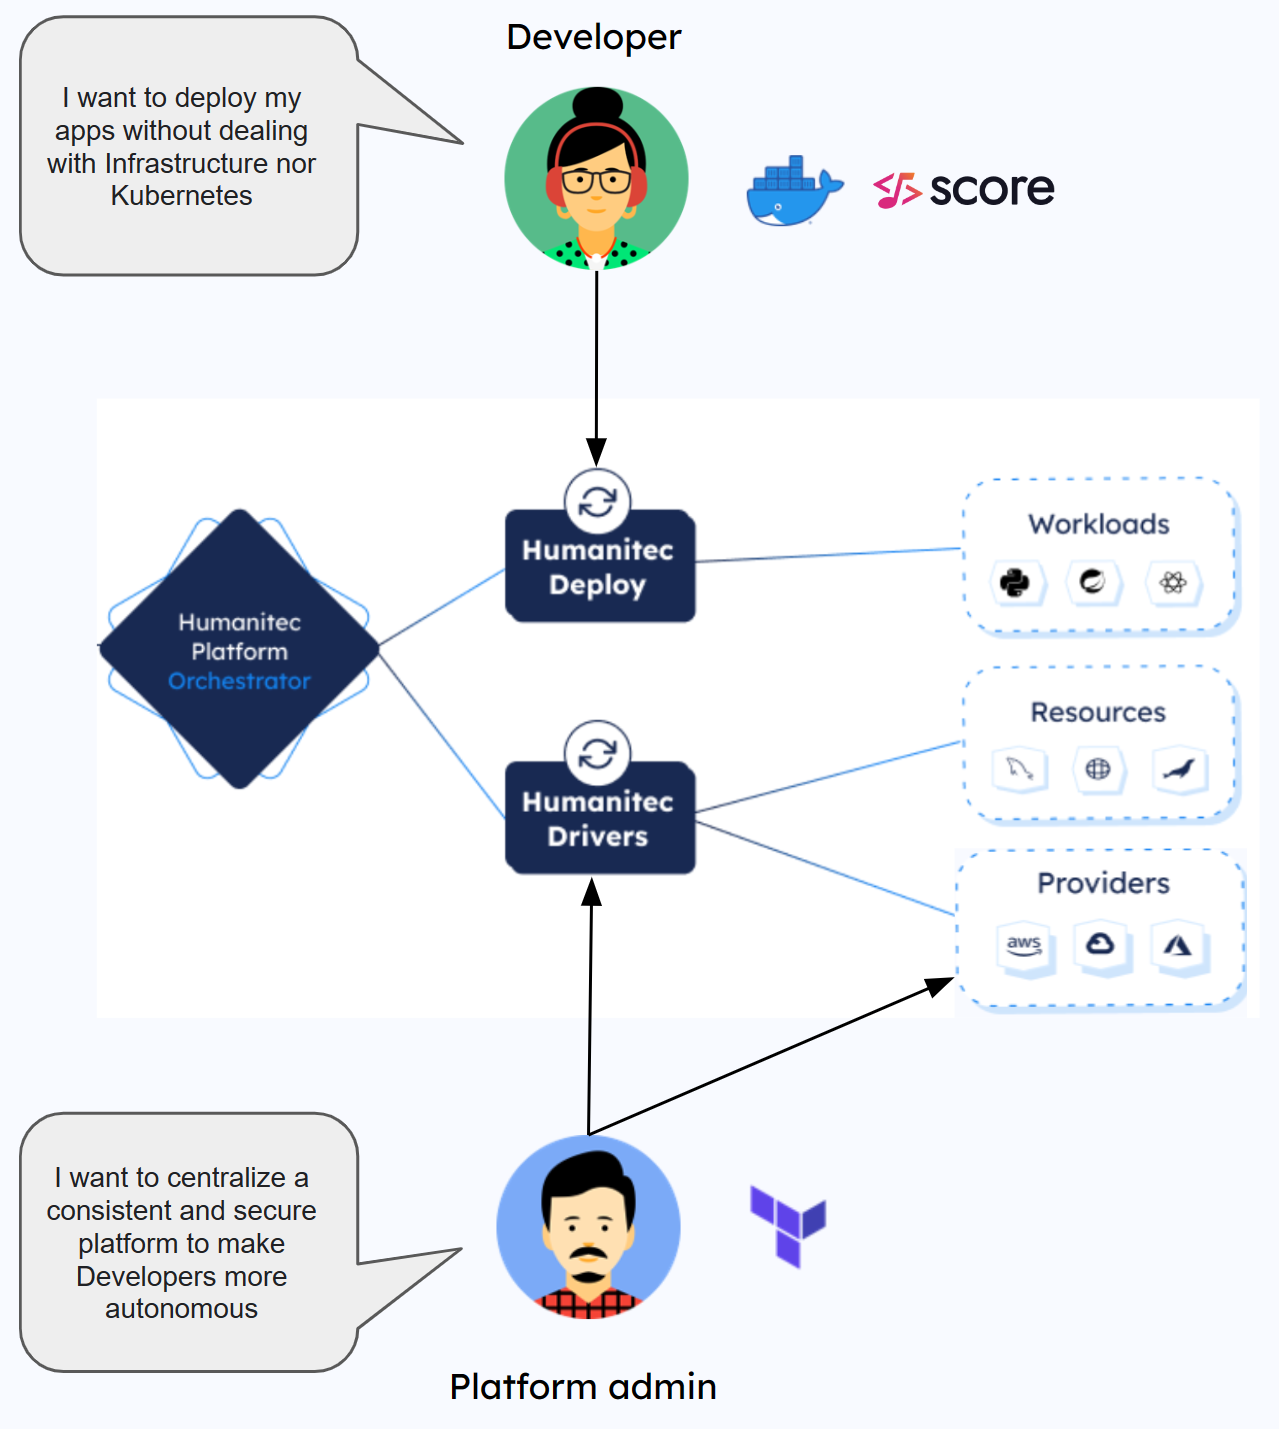
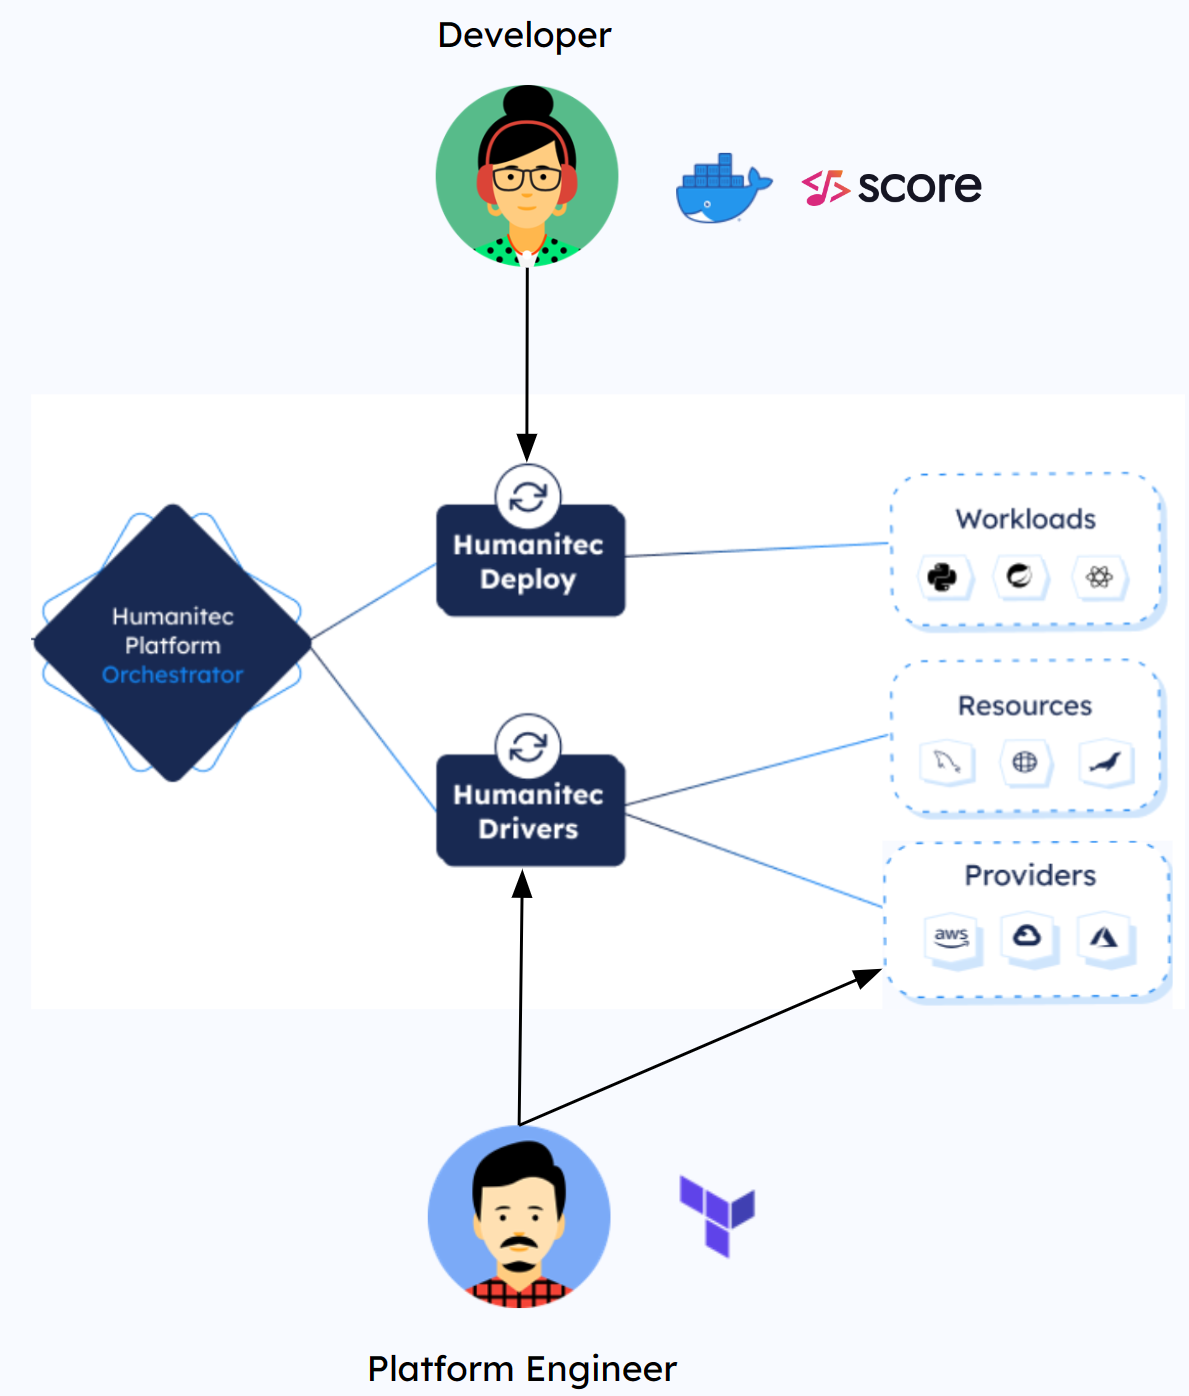
PE instead of PA

diff --git a/docs/aks-basic.md b/docs/aks-basic.md
@@ -2,14 +2,14 @@
 
 # AKS basic setup in Staging
 
-- [[PA-AZ] Create the AKS cluster](#pa-az-create-the-aks-cluster)
-- [[PA-AZ] Deploy the Nginx Ingress controller](#pa-az-deploy-the-nginx-ingress-controller)
-- [[PA-AZ] Create the Service Principal to access the AKS cluster](#pa-az-create-the-service-principal-to-access-the-aks-cluster)
-- [[PA-HUM] Create the AKS access resource definition](#pa-hum-create-the-aks-access-resource-definition)
-- [[PA-HUM] Create the Staging Environment](#pa-hum-create-the-staging-environment)
-- [[PA-AZ] Create an Azure Redis Cache database](#pa-az-create-an-azure-redis-cache-database)
-- [[PA-HUM] Create the Azure Redis Cache access resource definition](#pa-hum-create-the-azure-redis-cache-access-resource-definition)
-- [[PA-HUM] Deploy the Staging Environment](#pa-hum-deploy-the-staging-environment)
+- [[PE-AZ] Create the AKS cluster](#pe-az-create-the-aks-cluster)
+- [[PE-AZ] Deploy the Nginx Ingress controller](#pe-az-deploy-the-nginx-ingress-controller)
+- [[PE-AZ] Create the Service Principal to access the AKS cluster](#pe-az-create-the-service-principal-to-access-the-aks-cluster)
+- [[PE-HUM] Create the AKS access resource definition](#pe-hum-create-the-aks-access-resource-definition)
+- [[PE-HUM] Create the Staging Environment](#pe-hum-create-the-staging-environment)
+- [[PE-AZ] Create an Azure Redis Cache database](#pe-az-create-an-azure-redis-cache-database)
+- [[PE-HUM] Create the Azure Redis Cache access resource definition](#pe-hum-create-the-azure-redis-cache-access-resource-definition)
+- [[PE-HUM] Deploy the Staging Environment](#pe-hum-deploy-the-staging-environment)
 - [Test the Online Boutique website](#test-the-online-boutique-website)
 
 ```mermaid
@@ -65,9 +65,9 @@ export HUMANITEC_TOKEN=FIXME
 ENVIRONMENT=${STAGING_ENV}-aks
 ```
 
-## [PA-AZ] Create the AKS cluster
+## [PE-AZ] Create the AKS cluster
 
-As Platform Admin, in Azure.
+As Platform Engineer, in Azure.
 
 ```bash
 az provider register \
@@ -90,9 +90,9 @@ az aks get-credentials \
     -n ${CLUSTER_NAME}
 ```
 
-## [PA-AZ] Deploy the Nginx Ingress controller
+## [PE-AZ] Deploy the Nginx Ingress controller
 
-As Platform Admin, in Azure.
+As Platform Engineer, in Azure.
 
 Deploy the Nginx Ingress Controller:
 ```bash
@@ -113,9 +113,9 @@ echo ${INGRESS_IP}
 ```
 _Note: re-run the above command until you get a value._
 
-## [PA-AZ] Create the Service Principal to access the AKS cluster
+## [PE-AZ] Create the Service Principal to access the AKS cluster
 
-As Platform Admin, in Azure.
+As Platform Engineer, in Azure.
 
 Create the Service Principal with the appropriate role:
 ```bash
@@ -135,9 +135,9 @@ az role assignment create \
     --scope ${AKS_ID}
 ```
 
-## [PA-HUM] Create the AKS access resource definition
+## [PE-HUM] Create the AKS access resource definition
 
-As Platform Admin, in Humanitec.
+As Platform Engineer, in Humanitec.
 
 Create the AKS access resource definition:
 ```bash
@@ -199,9 +199,9 @@ rm ${CLUSTER_NAME}.yaml
 rm ${CLUSTER_NAME}.json
 ```
 
-## [PA-HUM] Create the Staging Environment
+## [PE-HUM] Create the Staging Environment
 
-As Platform Admin, in Humanitec.
+As Platform Engineer, in Humanitec.
 
 Create the new Environment by cloning the existing Environment from its latest Deployment:
 ```bash
@@ -250,9 +250,9 @@ humctl deploy env ${CLONED_ENVIRONMENT} ${ENVIRONMENT} \
 
 At this stage, you can already [test the Online Boutique website](#test-the-online-boutique-website) in its existing state.
 
-## [PA-AZ] Create an Azure Redis Cache database
+## [PE-AZ] Create an Azure Redis Cache database
 
-As Platform Admin, in Azure.
+As Platform Engineer, in Azure.
 
 Create the Azure Redis Cache database:
 ```bash
@@ -293,9 +293,9 @@ echo ${REDIS_AUTH}
 ```
 _Note: re-run the above commands until you get the 3 values._
 
-## [PA-HUM] Create the Azure Redis Cache access resource definition
+## [PE-HUM] Create the Azure Redis Cache access resource definition
 
-As Platform Admin, in Humanitec.
+As Platform Engineer, in Humanitec.
 
 ```bash
 cat <<EOF > ${REDIS_NAME}.yaml
@@ -351,9 +351,9 @@ Clean sensitive information locally:
 rm ${REDIS_NAME}.yaml
 ```
 
-## [PA-HUM] Deploy the Staging Environment
+## [PE-HUM] Deploy the Staging Environment
 
-As Platform admin, in Humanitec.
+As Platform Engineer, in Humanitec.
 
 Deploy the new Environment to take into account all the new resource definitions:
 ```bash

diff --git a/docs/common.md b/docs/common.md
@@ -6,10 +6,10 @@
 
 ## Common setup
 
-- [[PA-HUM] Create `staging` and `production` Environment types](#pa-hum-create-staging-and-production-environment-types)
-- [[PA-HUM] Create a custom `Namespace` resource definition](#pa-hum-create-a-custom-namespace-resource-definition)
-- [[PA-HUM] Create a custom `ServiceAccount` resource definition](#pa-hum-create-a-custom-serviceaccount-resource-definition)
-- [[PA-HUM] Create a custom Workload resource definition](#pa-hum-create-a-custom-workload-resource-definition)
+- [[PE-HUM] Create `staging` and `production` Environment types](#pe-hum-create-staging-and-production-environment-types)
+- [[PE-HUM] Create a custom `Namespace` resource definition](#pe-hum-create-a-custom-namespace-resource-definition)
+- [[PE-HUM] Create a custom `ServiceAccount` resource definition](#pe-hum-create-a-custom-serviceaccount-resource-definition)
+- [[PE-HUM] Create a custom Workload resource definition](#pe-hum-create-a-custom-workload-resource-definition)
 
 ```mermaid
 flowchart LR
@@ -33,7 +33,7 @@ export HUMANITEC_CONTEXT=/orgs/${HUMANITEC_ORG}
 export HUMANITEC_TOKEN=FIXME
 ```
 
-### [PA-HUM] Create `staging` and `production` Environment types
+### [PE-HUM] Create `staging` and `production` Environment types
 
 The `development` Environment type is already created by default in Humanitec.
 
@@ -83,9 +83,9 @@ humctl create environment-type ${PRODUCTION_ENV} \
   ```
 </details>
 
-### [PA-HUM] Create a custom `Namespace` resource definition
+### [PE-HUM] Create a custom `Namespace` resource definition
 
-As Platform Admin, in Humanitec.
+As Platform Engineer, in Humanitec.
 
 Customize the name of the Kubernetes `Namespace` for all our Apps in Production Environment Type ([reference](https://docs.humanitec.com/guides/orchestrate-infrastructure/define-namespaces)). One per App/Env. We are also adding the label to enforce [Pod Security Standards `restricted`](https://kubernetes.io/docs/concepts/security/pod-security-standards/):
 ```bash
@@ -159,9 +159,9 @@ humctl create \
   ```
 </details>
 
-### [PA-HUM] Create a custom `ServiceAccount` resource definition
+### [PE-HUM] Create a custom `ServiceAccount` resource definition
 
-As Platform Admin, in Humanitec.
+As Platform Engineer, in Humanitec.
 
 Create a dedicated Kubernetes `ServiceAccount` for all our Apps, one per Workload:
 ```bash
@@ -231,9 +231,9 @@ humctl create \
   ```
 </details>
 
-### [PA-HUM] Create a custom Workload resource definition
+### [PE-HUM] Create a custom Workload resource definition
 
-As Platform Admin, in Humanitec.
+As Platform Engineer, in Humanitec.
 
 Customize the Kubernetes `Deployment` manifests for all our Workloads in Production Environment Type by adding the `securityContext` sections and other security features ([reference](https://docs.humanitec.com/integrations/resource-types/workload)):
 ```bash

diff --git a/docs/gke-advanced.md b/docs/gke-advanced.md
@@ -87,7 +87,7 @@ ENVIRONMENT=${PRODUCTION_ENV}
 
 ## [PA-GCP] Create the GKE cluster
 
-As Platform Admin, in Google Cloud.
+As Platform Engineer, in Google Cloud.
 
 ```bash
 gcloud services enable container.googleapis.com
@@ -163,7 +163,7 @@ gcloud compute routers nats create ${CLUSTER_NAME} \
 
 ## [PA-GCP] Deploy the Nginx Ingress controller
 
-As Platform Admin, in Google Cloud.
+As Platform Engineer, in Google Cloud.
 
 Deploy the Nginx Ingress Controller:
 ```bash
@@ -335,7 +335,7 @@ gcloud compute backend-services update ${CLUSTER_NAME}-ingress-nginx-backend-ser
 
 ## [PA-HUM] Create the associated DNS and TLS resource definitions
 
-As Platform Admin, in Humanitec.
+As Platform Engineer, in Humanitec.
 
 Create the custom Ingress resource definition:
 ```bash
@@ -433,7 +433,7 @@ humctl create \
 
 ## [PA-GCP] Create the Google Service Account to access the GKE cluster
 
-As Platform Admin, in Google Cloud.
+As Platform Engineer, in Google Cloud.
 
 Create the Google Service Account (GSA) with the appropriate role:
 ```bash
@@ -455,7 +455,7 @@ gcloud iam service-accounts keys create ${GKE_ADMIN_SA_NAME}.json \
 
 ## [PA-HUM] Create the GKE access resource definition
 
-As Platform Admin, in Humanitec.
+As Platform Engineer, in Humanitec.
 
 Create the GKE access resource definition:
 ```bash
@@ -520,7 +520,7 @@ rm ${CLUSTER_NAME}.json
 
 ## [PA-GCP] Create the Google Service Account to access Cloud Logging
 
-As Platform Admin, in Google Cloud.
+As Platform Engineer, in Google Cloud.
 
 Create the Google Service Account (GSA) with the appropriate role:
 ```bash
@@ -541,7 +541,7 @@ gcloud iam service-accounts keys create ${LOGGING_READER_SA_NAME}.json \
 
 ## [PA-HUM] Create the Cloud Logging access resource definition
 
-As Platform Admin, in Humanitec.
+As Platform Engineer, in Humanitec.
 
 Create the Cloud Logging access resource definition for the Production Environment Type:
 ```bash
@@ -604,7 +604,7 @@ rm ${CLUSTER_NAME}-logging.json
 
 ## [PA-HUM] Create the Production Environment
 
-As Platform Admin, in Humanitec.
+As Platform Engineer, in Humanitec.
 
 Create the new Environment by cloning the existing Environment from its latest Deployment:
 ```bash
@@ -701,7 +701,7 @@ _Note: re-run the above the command until you get the value._
 
 ## [PA-HUM] Create the Spanner access resource definition
 
-As Platform Admin, in Humanitec.
+As Platform Engineer, in Humanitec.
 
 ```bash
 cat <<EOF > ${SPANNER_INSTANCE_NAME}-${SPANNER_DATABASE_NAME}-${ENVIRONMENT}-spanner.yaml

diff --git a/docs/gke-basic.md b/docs/gke-basic.md
@@ -70,7 +70,7 @@ ENVIRONMENT=${STAGING_ENV}
 
 ## [PA-GCP] Create the GKE cluster
 
-As Platform Admin, in Google Cloud.
+As Platform Engineer, in Google Cloud.
 
 ```bash
 gcloud services enable container.googleapis.com
@@ -93,7 +93,7 @@ gcloud container clusters get-credentials ${CLUSTER_NAME} \
 
 ## [PA-GCP] Deploy the Nginx Ingress controller
 
-As Platform Admin, in Google Cloud.
+As Platform Engineer, in Google Cloud.
 
 Deploy the Nginx Ingress Controller:
 ```bash
@@ -115,7 +115,7 @@ _Note: re-run the above command until you get a value._
 
 ## [PA-GCP] Create the Google Service Account to access the GKE cluster
 
-As Platform Admin, in Google Cloud.
+As Platform Engineer, in Google Cloud.
 
 Create the Google Service Account (GSA) with the appropriate role:
 ```bash
@@ -136,7 +136,7 @@ gcloud iam service-accounts keys create ${GKE_ADMIN_SA_NAME}.json \
 
 ## [PA-HUM] Create the GKE access resource definition
 
-As Platform Admin, in Humanitec.
+As Platform Engineer, in Humanitec.
 
 Create the GKE access resource definition:
 ```bash
@@ -201,7 +201,7 @@ rm ${CLUSTER_NAME}.json
 
 ## [PA-HUM] Create the Staging Environment
 
-As Platform Admin, in Humanitec.
+As Platform Engineer, in Humanitec.
 
 Create the new Environment by cloning the existing Environment from its latest Deployment:
 ```bash
@@ -252,7 +252,7 @@ At this stage, you can already [test the Online Boutique website](#test-the-onli
 
 ## [PA-GCP] Create a Memorystore (Redis) database
 
-As Platform Admin, in Google Cloud.
+As Platform Engineer, in Google Cloud.
 
 Create the Memorystore (Redis) database with a password in same region and network as the GKE cluster:
 ```bash
@@ -286,7 +286,7 @@ _Note: re-run the above commands until you get the 3 values._
 
 ## [PA-HUM] Create the Memorystore (Redis) access resource definition
 
-As Platform Admin, in Humanitec.
+As Platform Engineer, in Humanitec.
 
 ```bash
 cat <<EOF > ${REDIS_NAME}.yaml
@@ -344,7 +344,7 @@ rm ${REDIS_NAME}.yaml
 
 ## [PA-HUM] Deploy the Staging Environment
 
-As Platform admin, in Humanitec.
+As Platform Engineer, in Humanitec.
 
 Deploy the new Environment to take into account all the new resource definitions:
 ```bash

diff --git a/docs/humanitec-default.md b/docs/humanitec-default.md
@@ -50,7 +50,7 @@ cd hello-humanitec/
 
 ## [PA-HUM] Create the Online Boutique App
 
-As Platform Admin, in Humanitec.
+As Platform Engineer, in Humanitec.
 
 ```bash
 ONLINEBOUTIQUE_APP=onlineboutique
@@ -78,7 +78,7 @@ humctl create app ${ONLINEBOUTIQUE_APP} \
 
 ## [PA-HUM] Create the in-cluster Redis resource definition
 
-As Platform Admin, in Humanitec.
+As Platform Engineer, in Humanitec.
 
 Create the in-cluster Redis resource definition:
 ```bash
